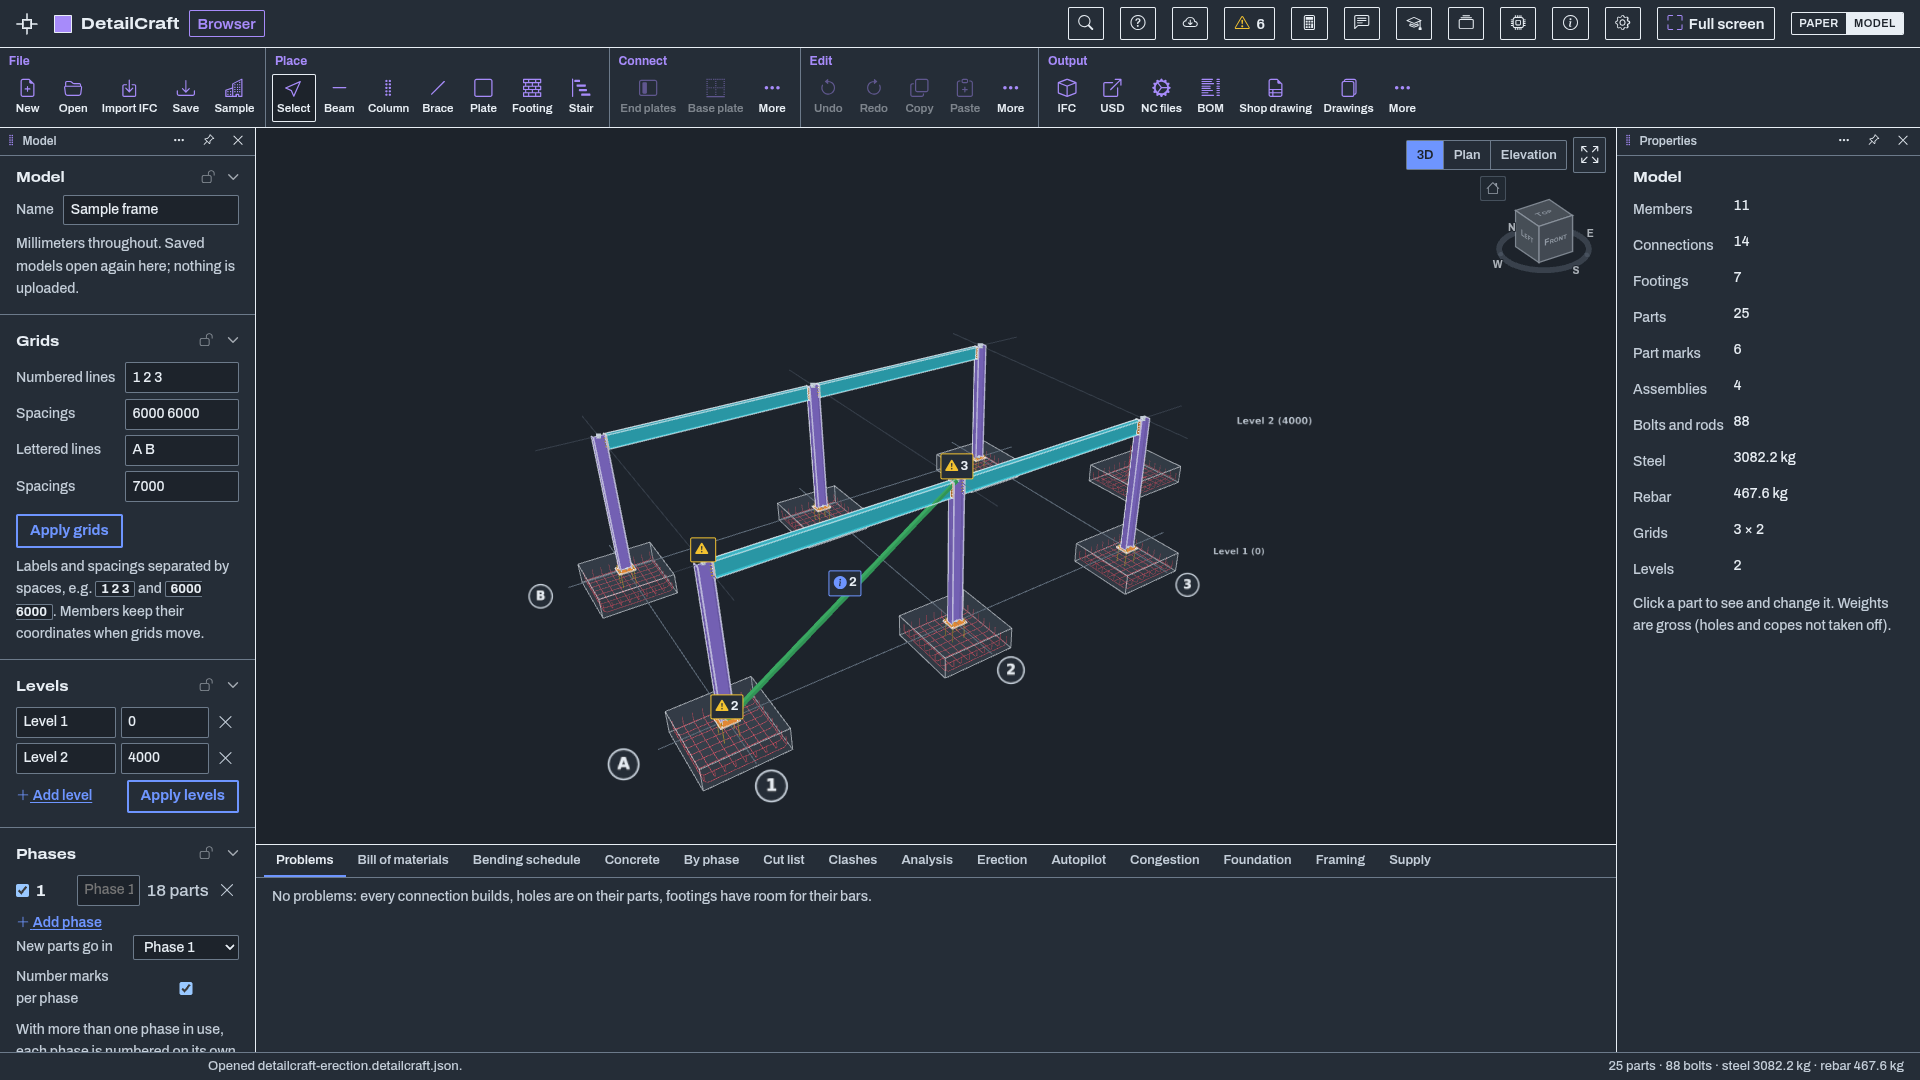
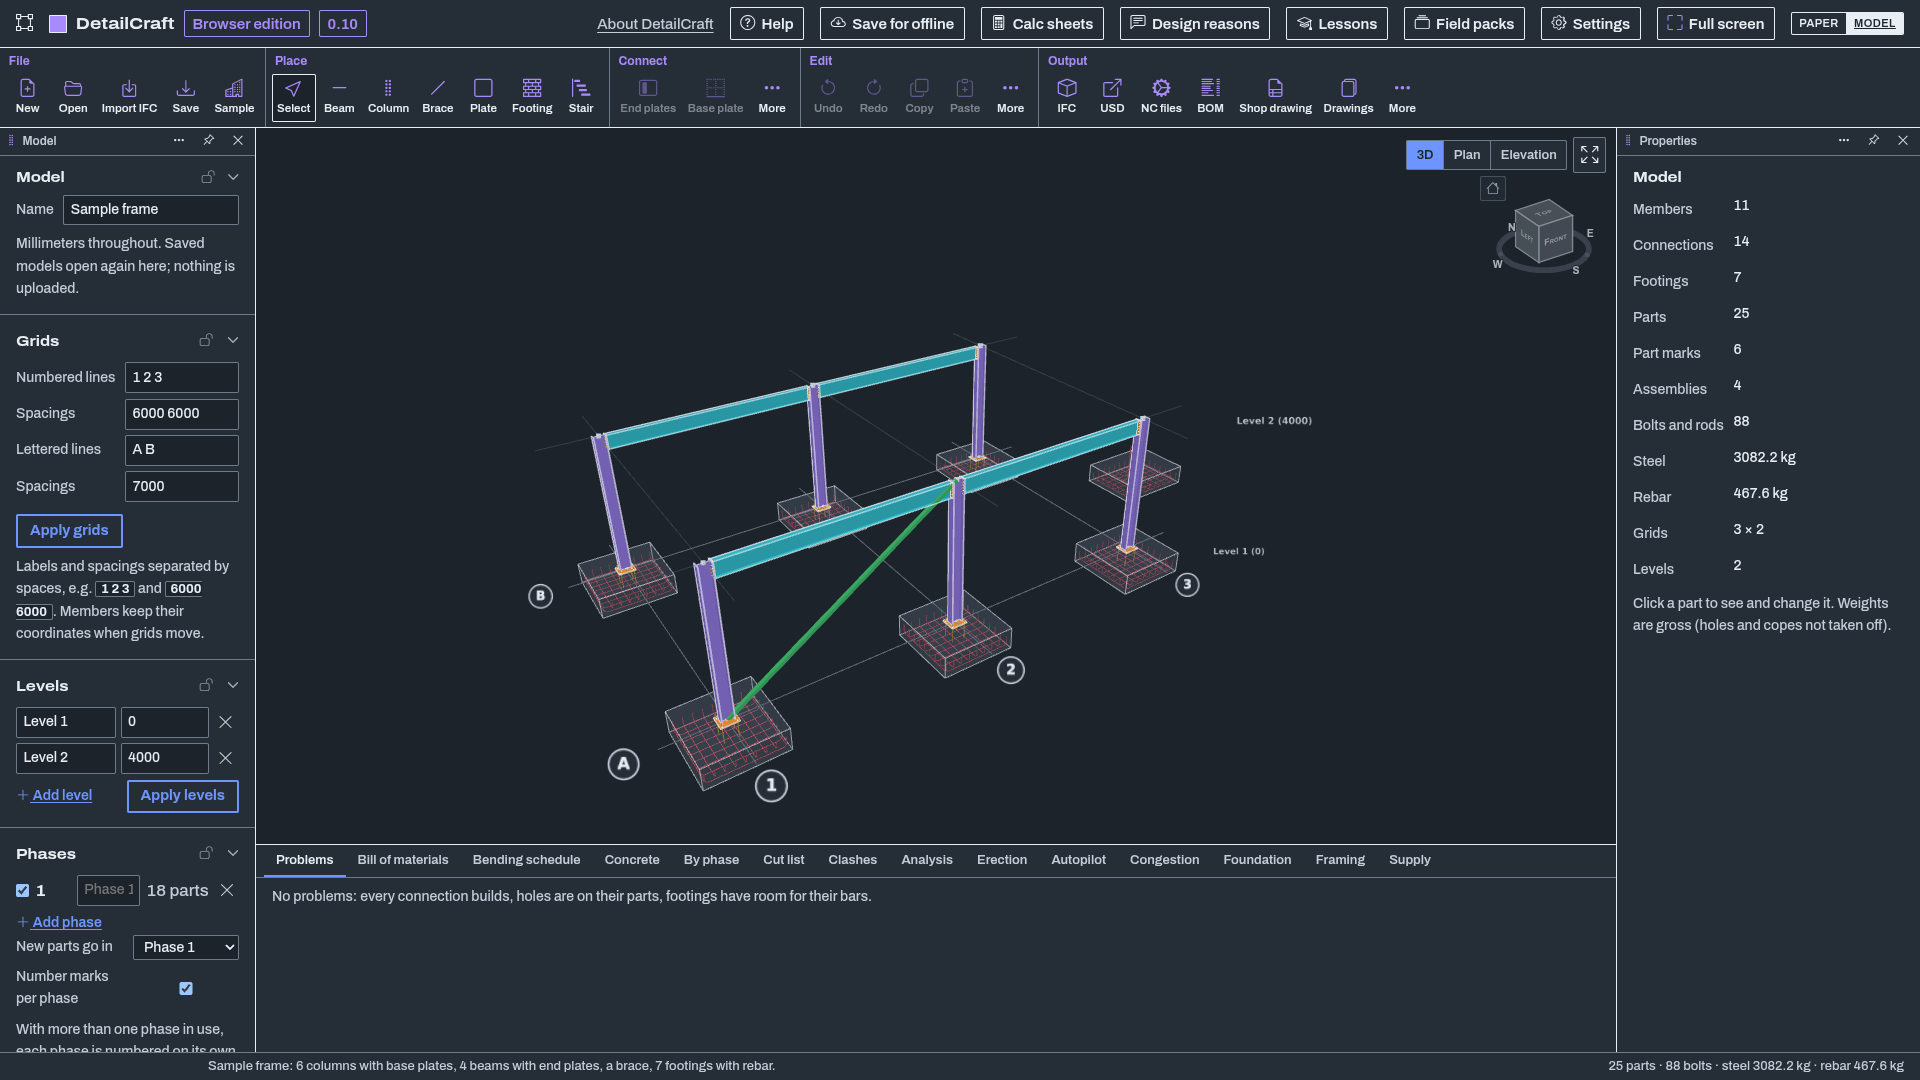
README: 0.10 screenshots (the released 0.10 browser edition, dark theme)

diff --git a/README.md b/README.md
@@ -6,9 +6,9 @@ Model it once. Every shop drawing follows.
 
 **[Website](https://getcadcraft.com/apps/detailcraft) | [Use it in your browser](https://getcadcraft.com/use/detailcraft) | [Download CadCraft Studio](https://getcadcraft.com/download#studio) | [Help and tutorials](https://getcadcraft.com/tutorials/detailcraft) | [News](https://getcadcraft.com/news) | [Suggest a feature](https://getcadcraft.com/suggest)**
 
-[![DetailCraft 0.9](screenshots/paper.png)](https://getcadcraft.com/use/detailcraft)
+[![DetailCraft 0.10](screenshots/paper.png)](https://getcadcraft.com/use/detailcraft)
 
-<sub>DetailCraft 0.9 in the browser, dark theme. [A second view](screenshots/model.png).</sub>
+<sub>DetailCraft 0.10 in the browser, dark theme. [A second view](screenshots/model.png).</sub>
 
 DetailCraft is the steel & rebar detailing app in the [CadCraft](https://getcadcraft.com) family: Structural steel members and connections, rebar placement and bending schedules, shop drawings and NC files from one model.
 
